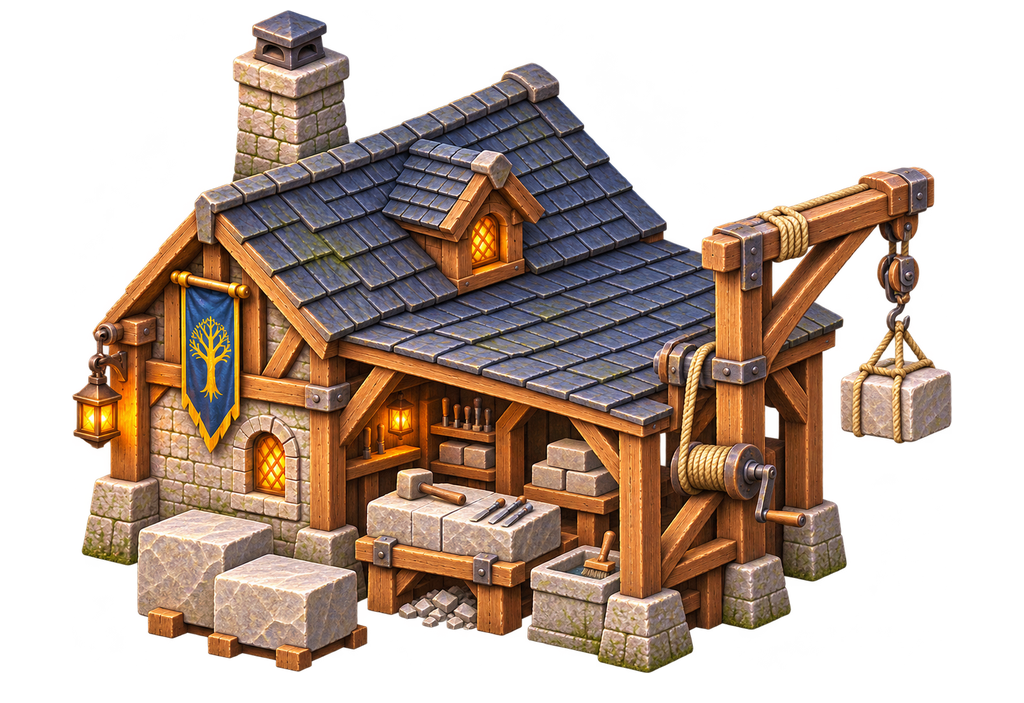
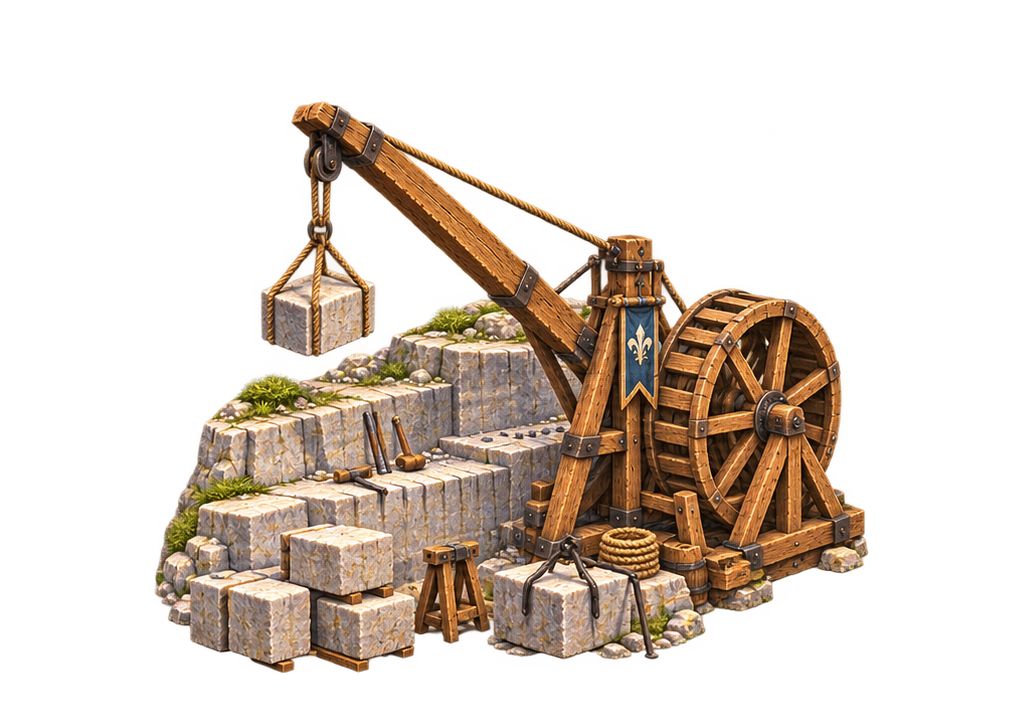
Distinguish the training yard, silos and quarry and open the Valoria layout

diff --git a/Unity/Assets/Experimentos/ValoriaModular25D/Scripts/Modular25DWorld.cs b/Unity/Assets/Experimentos/ValoriaModular25D/Scripts/Modular25DWorld.cs
@@ -76,9 +76,9 @@ namespace Eldoria.Experimentos.ValoriaModular25D
             // not add another large dark ellipse over the sawdust footprint.
 
             // Future completed architecture stays invisible until canonical level AND completion.
-            BarracksRenderer=AddExpansionBuilding(buildings,"barracks",new Vector2(-1.65f,-4.20f));
-            GranaryRenderer=AddExpansionBuilding(buildings,"granary",new Vector2(1.15f,-6.00f));
-            StoneworksRenderer=AddExpansionBuilding(buildings,"stoneworks",new Vector2(-1.65f,-7.65f));
+            BarracksRenderer=AddExpansionBuilding(buildings,"barracks",new Vector2(-2.04f,-4.10f));
+            GranaryRenderer=AddExpansionBuilding(buildings,"granary",new Vector2(1.95f,-6.18f));
+            StoneworksRenderer=AddExpansionBuilding(buildings,"stoneworks",new Vector2(-2.05f,-8.30f));
 
             // BASTION I PRODUCTION COMPOSITION: a deliberate rebuilt hamlet,
             // not random RPG decorations on an empty lawn. Four readable zones

diff --git a/Unity/Assets/Experimentos/ValoriaModular25D/Scripts/Modular25DInterface.cs b/Unity/Assets/Experimentos/ValoriaModular25D/Scripts/Modular25DInterface.cs
@@ -182,9 +182,9 @@ namespace Eldoria.Experimentos.ValoriaModular25D
             // Commercial strategy-game grammar: three illustrated action tiles
             // and one honest contextual task, not an app-style navigation bar.
             // Every available action has a real behaviour from the sandbox.
-            inspect = DockButton("Inspect sawmill",rootTransform,"OBRAS",hammerIcon,
+            inspect = DockButton("Inspect sawmill",rootTransform,"ASERRADERO",hammerIcon,
                 new Vector2(0f,0f),new Vector2(0f,0f),OpenSawmill);
-            center = DockButton("Center camera",rootTransform,"CIUDAD",cityIcon,
+            center = DockButton("Center camera",rootTransform,"CENTRAR",cityIcon,
                 new Vector2(1f,0f),new Vector2(1f,0f),
                 () => GetComponent<Modular25DCameraInput>().Home());
             statusDock = DockButton("Inspect city status",rootTransform,"ESTADO",taskIcon,
